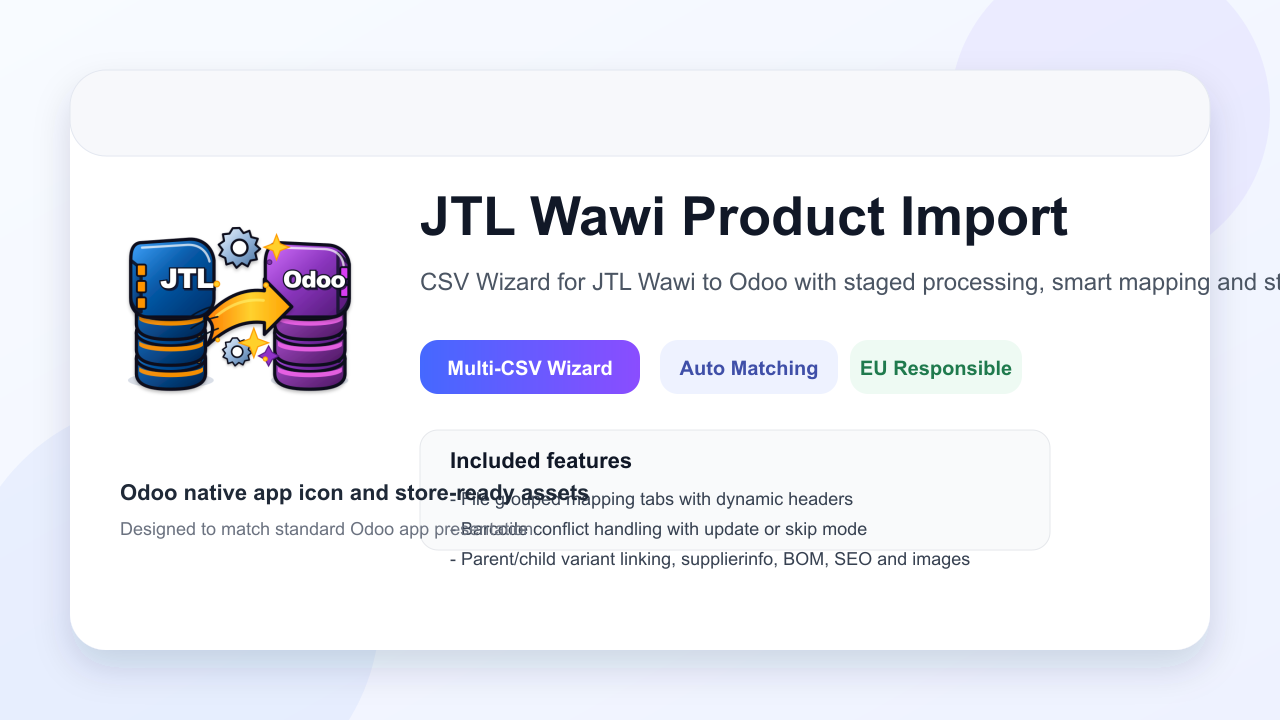
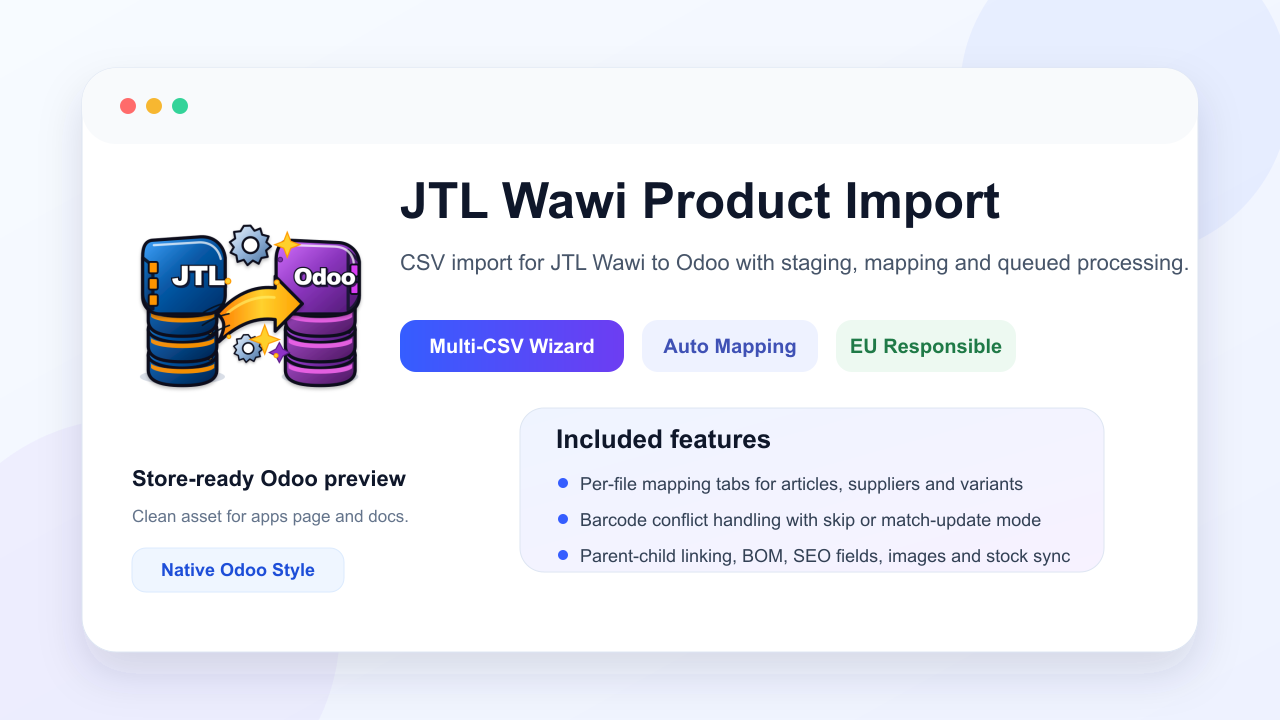
Refresh app store description assets

diff --git a/jtl_wawi_product_import/static/description/index.html b/jtl_wawi_product_import/static/description/index.html
@@ -1,160 +1,101 @@
-<!DOCTYPE html>
-<html lang="en">
-<head>
-  <meta charset="utf-8">
-  <meta name="viewport" content="width=device-width, initial-scale=1">
-  <title>JTL Wawi Product Import</title>
-  <style>
-    :root {
-      --bg: #f4f7ff;
-      --card: #ffffff;
-      --text: #111827;
-      --muted: #4b5563;
-      --accent: #5b4aa8;
-      --accent2: #4568ff;
-      --border: #e5e7eb;
-    }
-    body {
-      margin: 0;
-      font-family: Arial, Helvetica, sans-serif;
-      background: linear-gradient(180deg, #f8fbff 0%, #eef2ff 100%);
-      color: var(--text);
-    }
-    .wrap {
-      max-width: 1200px;
-      margin: 0 auto;
-      padding: 32px 20px 48px;
-    }
-    .hero {
-      display: grid;
-      grid-template-columns: 260px 1fr;
-      gap: 28px;
-      align-items: center;
-      background: var(--card);
-      border: 1px solid var(--border);
-      border-radius: 24px;
-      padding: 28px;
-      box-shadow: 0 18px 40px rgba(27, 37, 80, 0.12);
-    }
-    .hero img {
-      width: 240px;
-      height: 240px;
-      object-fit: contain;
-    }
-    h1 {
-      margin: 0 0 10px;
-      font-size: 42px;
-      line-height: 1.1;
-    }
-    p.lead {
-      margin: 0 0 18px;
-      font-size: 18px;
-      color: var(--muted);
-      line-height: 1.6;
-    }
-    .pills {
-      display: flex;
-      flex-wrap: wrap;
-      gap: 10px;
-      margin-top: 18px;
-    }
-    .pill {
-      border-radius: 999px;
-      padding: 10px 14px;
-      font-size: 14px;
-      font-weight: 700;
-      border: 1px solid var(--border);
-      background: #f8fafc;
-    }
-    .pill.primary {
-      background: linear-gradient(90deg, var(--accent2), var(--accent));
-      color: white;
-      border: none;
-    }
-    .section {
-      margin-top: 28px;
-      background: var(--card);
-      border: 1px solid var(--border);
-      border-radius: 24px;
-      padding: 24px;
-    }
-    .grid {
-      display: grid;
-      grid-template-columns: repeat(2, minmax(0, 1fr));
-      gap: 18px;
-    }
-    ul {
-      margin: 12px 0 0 18px;
-      color: var(--muted);
-      line-height: 1.7;
-    }
-    .shots {
-      display: grid;
-      grid-template-columns: 1fr;
-      gap: 18px;
-    }
-    .shots img {
-      width: 100%;
-      border-radius: 18px;
-      border: 1px solid var(--border);
-      box-shadow: 0 12px 28px rgba(27, 37, 80, 0.08);
-    }
-    @media (max-width: 860px) {
-      .hero, .grid { grid-template-columns: 1fr; }
-      h1 { font-size: 34px; }
-    }
-  </style>
-</head>
-<body>
-  <div class="wrap">
-    <div class="hero">
-      <img src="icon.png" alt="JTL Wawi Product Import icon">
-      <div>
-        <h1>JTL Wawi Product Import</h1>
-        <p class="lead">
-          Import JTL-Wawi product CSV bundles into Odoo with a multi-step wizard,
-          per-file mapping, barcode conflict handling, variant linking and staged background processing.
+<div style="max-width: 1080px; margin: 0 auto; font-family: Arial, sans-serif; color: #1f2937; background: #f6f7f9; padding: 24px;">
+
+    <div style="background: #ffffff; border: 1px solid #e5e7eb; border-radius: 14px; padding: 28px; margin-bottom: 20px;">
+        <h1 style="margin: 0 0 16px; font-size: 38px; color: #0f172a;">JTL Wawi Product Import</h1>
+        <h2 style="margin: 0 0 12px; font-size: 28px; color: #0f172a;">Description</h2>
+        <p style="margin: 0; line-height: 1.7;">
+            <span style="background: #f3f4f6; padding: 3px 8px; border-radius: 6px; font-family: monospace;">jtl_wawi_product_import</span>
+            imports JTL-Wawi CSV exports into Odoo through a staged multi-file workflow. The module provides a guided import wizard,
+            per-file field mapping, barcode conflict handling, parent-child product linking, supplier synchronization, SEO field import,
+            and queued background processing for large product datasets.
         </p>
-        <div class="pills">
-          <span class="pill primary">Multi CSV Wizard</span>
-          <span class="pill">Auto Mapping</span>
-          <span class="pill">Barcode Match Update</span>
-          <span class="pill">EU Responsible</span>
-          <span class="pill">Background Queue</span>
-        </div>
-      </div>
     </div>
 
-    <div class="section">
-      <h2>Features</h2>
-      <div class="grid">
-        <div>
-          <ul>
-            <li>Separate CSV tabs for article master data, manufacturers, EU Responsible, categories, supplier info and variants.</li>
-            <li>Automatic header detection and per-file field mapping.</li>
-            <li>Option to create new custom Odoo fields directly from the wizard.</li>
-            <li>Barcode conflict handling with skip or match-update mode.</li>
-            <li>Manufacturer data and EU RP data can be mapped as brands and created automatically.</li>
-          </ul>
-        </div>
-        <div>
-          <ul>
-            <li>Parent/child product linking for variant structures.</li>
-            <li>Manufacturer, EU Responsible and brand resolution.</li>
-            <li>Supplierinfo, stock, images, SEO and BOM import support.</li>
-            <li>Length, width and height are synced to volume automatically.</li>
-          </ul>
-        </div>
-      </div>
+    <div style="background: #ffffff; border: 1px solid #e5e7eb; border-radius: 14px; padding: 20px; margin-bottom: 20px;">
+        <h2 style="margin: 0 0 16px; font-size: 28px; color: #0f172a;">Main Overview</h2>
+        <img
+            src="main_screenshot.png"
+            alt="JTL Wawi Product Import main overview"
+            style="display: block; width: 100%; height: auto; border: 1px solid #e5e7eb; border-radius: 12px;"
+        />
     </div>
 
-    <div class="section">
-      <h2>Screenshots</h2>
-      <div class="shots">
-        <img src="main_1.png" alt="JTL Wawi Product Import overview">
-        <img src="main_screenshot.png" alt="JTL Wawi Product Import wizard screenshot">
-      </div>
+    <div style="background: #ffffff; border: 1px solid #e5e7eb; border-radius: 14px; padding: 20px; margin-bottom: 20px;">
+        <h2 style="margin: 0 0 16px; font-size: 28px; color: #0f172a;">Store Preview Asset</h2>
+        <img
+            src="main_1.png"
+            alt="JTL Wawi Product Import store preview asset"
+            style="display: block; width: 100%; height: auto; border: 1px solid #e5e7eb; border-radius: 12px;"
+        />
     </div>
-  </div>
-</body>
-</html>
+
+    <div style="background: #ffffff; border: 1px solid #e5e7eb; border-radius: 14px; padding: 28px; margin-bottom: 20px;">
+        <h2 style="margin: 0 0 12px; font-size: 28px; color: #0f172a;">Highlights</h2>
+        <ul style="margin: 0; padding-left: 22px; line-height: 1.8;">
+            <li>Multi-file wizard for article master data, manufacturers, EU representatives, categories, supplier data, variations, attributes, features, and BOM rows</li>
+            <li>Per-file CSV header detection with configurable field mapping and optional profile reuse</li>
+            <li>Barcode conflict handling with skip mode or targeted match-update behavior</li>
+            <li>Parent-child linking for variants and staged import processing for large files</li>
+            <li>Manufacturer, brand, and EU responsible synchronization during import</li>
+            <li>Supplierinfo, stock, images, SEO fields, and BOM preparation support</li>
+        </ul>
+    </div>
+
+    <div style="background: #ffffff; border: 1px solid #e5e7eb; border-radius: 14px; padding: 28px; margin-bottom: 20px;">
+        <h2 style="margin: 0 0 18px; font-size: 28px; color: #0f172a;">Feature Overview</h2>
+
+        <div style="background: #f9fafb; border: 1px solid #e5e7eb; border-radius: 12px; padding: 20px; margin-bottom: 16px;">
+            <h3 style="margin: 0 0 10px; font-size: 22px; color: #0f172a;">Wizard and Mapping</h3>
+            <ul style="margin: 0; padding-left: 22px; line-height: 1.8;">
+                <li>Uploads multiple JTL CSV files in one guided import run</li>
+                <li>Builds separate mapping tabs for each source file type</li>
+                <li>Supports reusable mapping profiles through <span style="background: #f3f4f6; padding: 3px 8px; border-radius: 6px; font-family: monospace;">jtl.import.profile</span></li>
+                <li>Allows selective column activation instead of forcing full file imports</li>
+                <li>Validates required mappings before the run is queued</li>
+            </ul>
+        </div>
+
+        <div style="background: #f9fafb; border: 1px solid #e5e7eb; border-radius: 12px; padding: 20px; margin-bottom: 16px;">
+            <h3 style="margin: 0 0 10px; font-size: 22px; color: #0f172a;">Product and Partner Processing</h3>
+            <ul style="margin: 0; padding-left: 22px; line-height: 1.8;">
+                <li>Creates or updates products from staged article master rows</li>
+                <li>Links parent and variant products based on imported SKU relationships</li>
+                <li>Maps manufacturers and EU representative data to partner and brand records</li>
+                <li>Updates supplierinfo records from supplier CSV exports</li>
+                <li>Synchronizes SEO fields, descriptions, dimensions, images, and stock-related values when available</li>
+            </ul>
+        </div>
+
+        <div style="background: #f9fafb; border: 1px solid #e5e7eb; border-radius: 12px; padding: 20px;">
+            <h3 style="margin: 0 0 10px; font-size: 22px; color: #0f172a;">Staging and Execution</h3>
+            <ul style="margin: 0; padding-left: 22px; line-height: 1.8;">
+                <li>Stages parsed rows before full processing to keep imports traceable</li>
+                <li>Runs product processing in queueable batches through <span style="background: #f3f4f6; padding: 3px 8px; border-radius: 6px; font-family: monospace;">jtl.import.run</span></li>
+                <li>Tracks processing state, progress, and field-level log messages</li>
+                <li>Supports reset, requeue, and failure diagnostics for operational imports</li>
+            </ul>
+        </div>
+    </div>
+
+    <div style="background: #ffffff; border: 1px solid #e5e7eb; border-radius: 14px; padding: 28px; margin-bottom: 20px;">
+        <h2 style="margin: 0 0 16px; font-size: 28px; color: #0f172a;">Requirements</h2>
+        <ul style="margin: 0; padding-left: 22px; line-height: 1.8;">
+            <li>Odoo modules: <span style="background: #f3f4f6; padding: 3px 8px; border-radius: 6px; font-family: monospace;">account</span>, <span style="background: #f3f4f6; padding: 3px 8px; border-radius: 6px; font-family: monospace;">contacts</span>, <span style="background: #f3f4f6; padding: 3px 8px; border-radius: 6px; font-family: monospace;">mail</span>, <span style="background: #f3f4f6; padding: 3px 8px; border-radius: 6px; font-family: monospace;">product</span>, <span style="background: #f3f4f6; padding: 3px 8px; border-radius: 6px; font-family: monospace;">purchase_stock</span>, <span style="background: #f3f4f6; padding: 3px 8px; border-radius: 6px; font-family: monospace;">stock</span></li>
+            <li>Install <span style="background: #f3f4f6; padding: 3px 8px; border-radius: 6px; font-family: monospace;">website_sale</span> if website and SEO target fields should be populated in the full website context</li>
+            <li>Enable product variants in Odoo if variation CSV files should be imported into variant structures</li>
+            <li>Install MRP-related functionality if BOM rows should be turned into real bill of materials records</li>
+        </ul>
+    </div>
+
+    <div style="background: #ffffff; border: 1px solid #e5e7eb; border-radius: 14px; padding: 28px;">
+        <h2 style="margin: 0 0 16px; font-size: 28px; color: #0f172a;">Typical Flow</h2>
+        <ol style="margin: 0; padding-left: 22px; line-height: 1.8;">
+            <li>Upload one or more JTL export files in the import wizard.</li>
+            <li>Review generated CSV headers and map the active columns per file.</li>
+            <li>Validate the staged run and queue it for background processing.</li>
+            <li>Monitor progress and logs from the import run record.</li>
+            <li>Requeue or reset the run if follow-up corrections are needed.</li>
+        </ol>
+    </div>
+
+</div>
